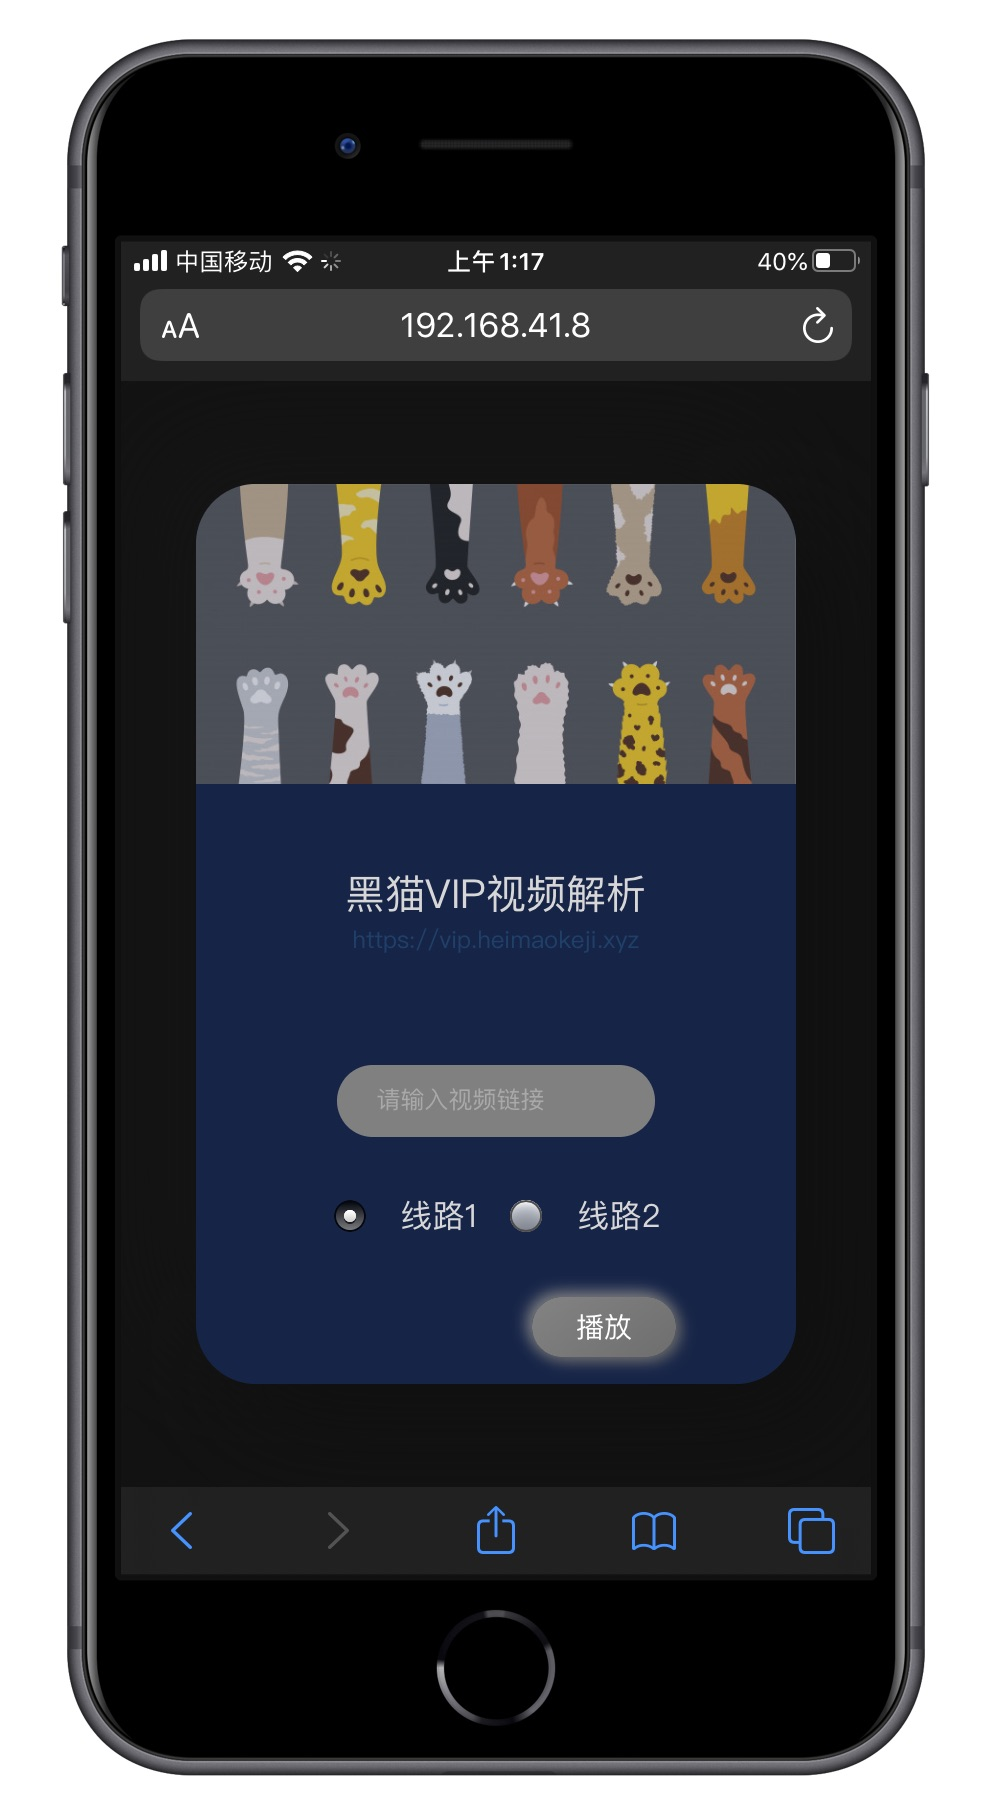
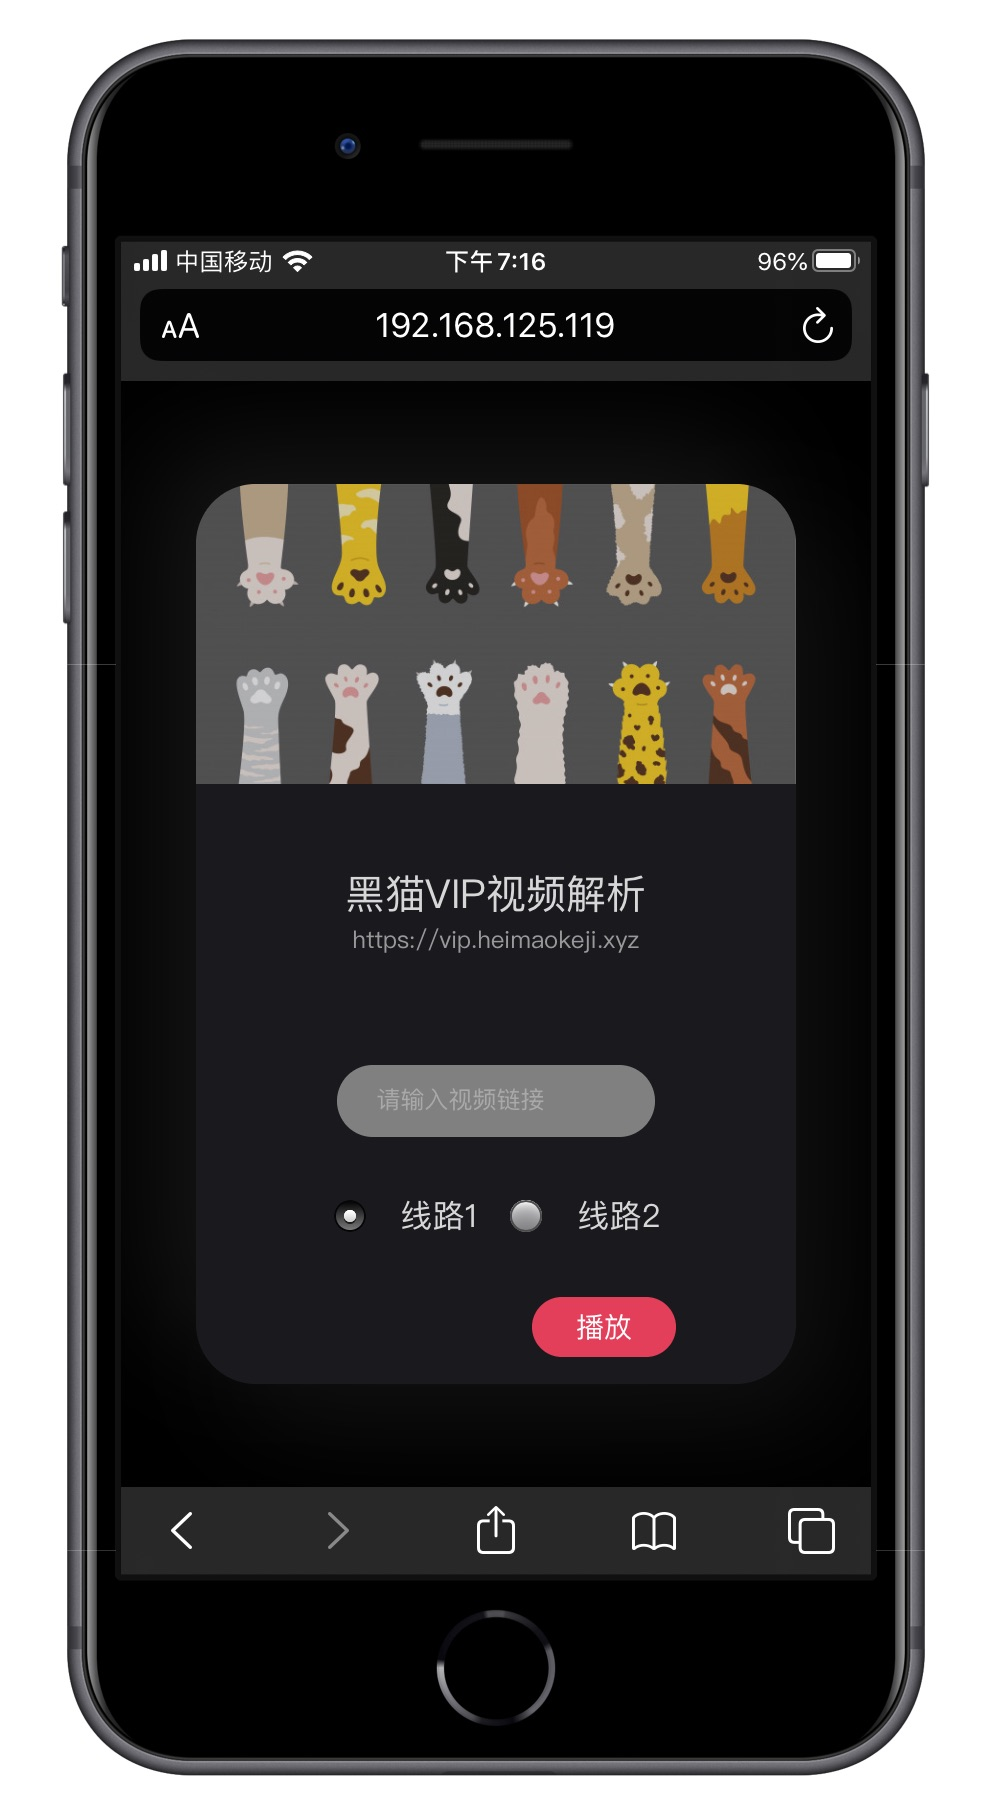
improve dark mode scheme

diff --git a/style.css b/style.css
@@ -236,8 +236,8 @@ body {
 /* dark mode */
 @media (prefers-color-scheme: dark) {
   :root {
-    --link-color: #1f4068;
-    --theme-color: #121212;
+    --link-color: #999999;
+    --theme-color: #000000;
     --shadow-right-bottom-color: #0f0f0f;
     --shadow-left-top-color: #151515;
     --input-right-bottom-color: #6d6d6d;
@@ -246,11 +246,11 @@ body {
   }
 
   .card-front, .card-back {
-    background-color: #162447;
+    background-color: #1a1a1d;
   }
 
   .card-front img {
-    opacity: .75;
+    opacity: .8;
   }
 
   .card-front .desc .text,
@@ -265,5 +265,10 @@ body {
 
   .card-front form #media-url:hover {
     background: linear-gradient(145deg, #737373, #898989);
+  }
+
+  .card-front form .play {
+    background: #E43F5A;
+    box-shadow: none;
   }
 }
